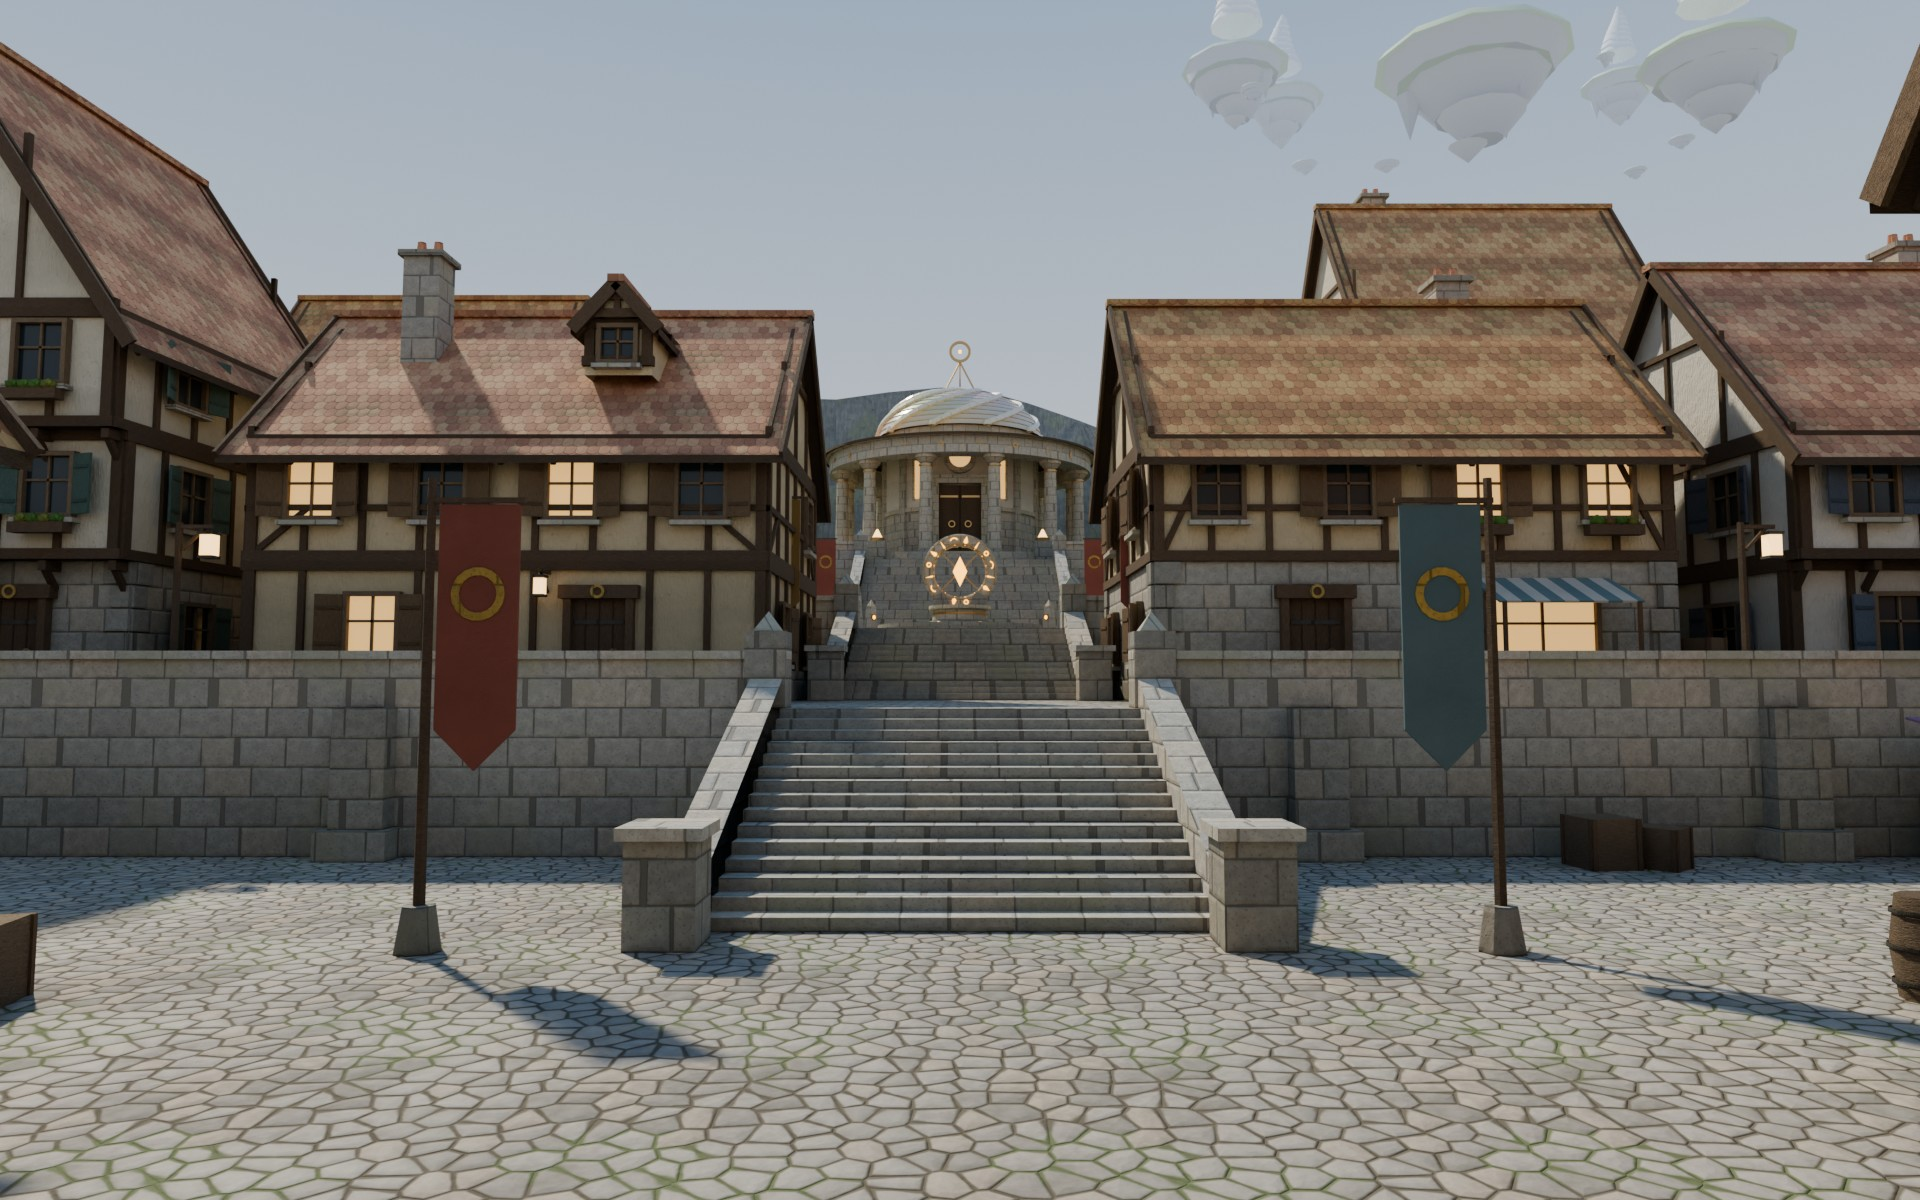
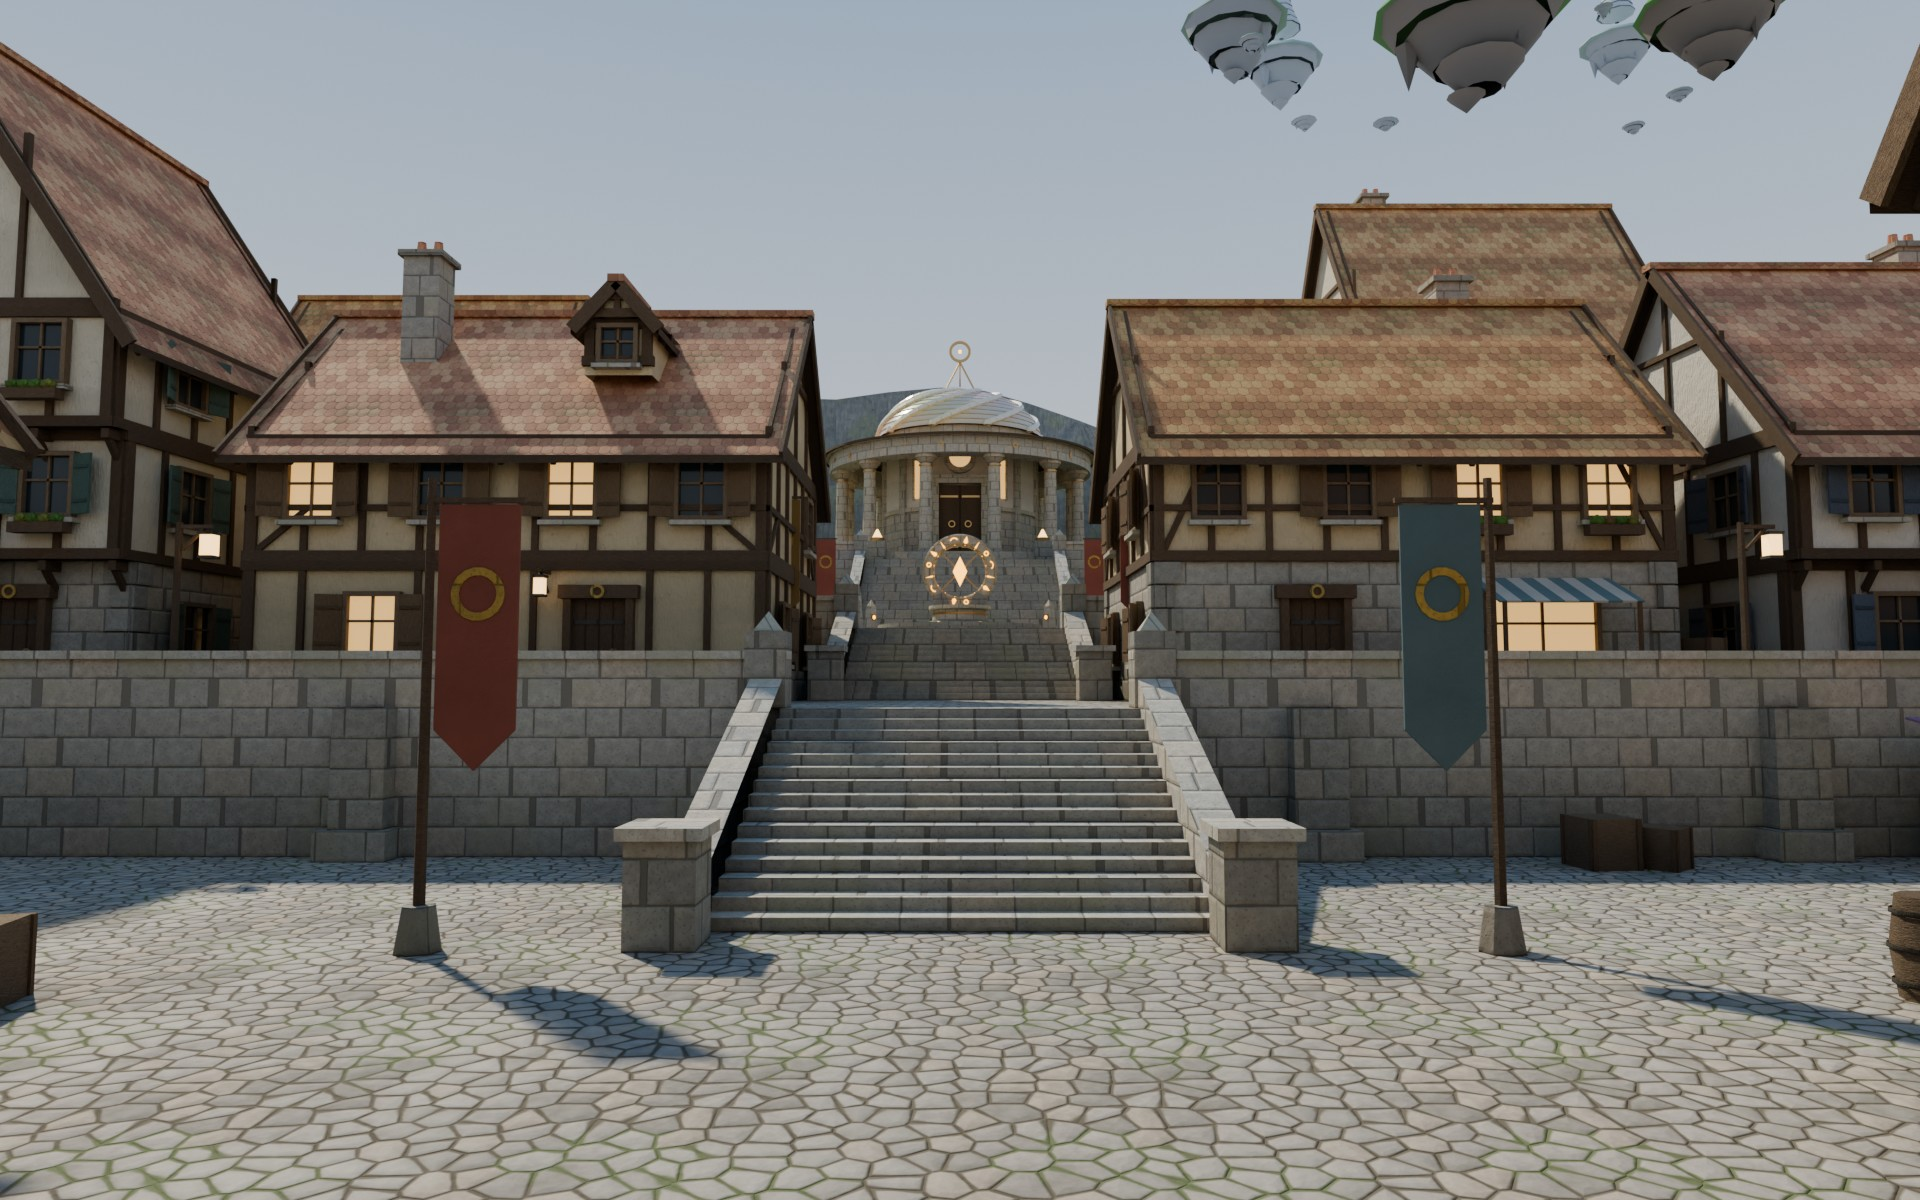
Town: the near sky islands keep their colours (grass rims, brown rock, pearly Shells), haze on the far ones; shrine render clear of the finial
Claude-Session: https://claude.ai/code/session_01GXNexMPppU9XEk5Q32gzVd

Changed region(s): [[0.7188, 0.0, 0.9375, 0.1233], [0.5938, 0.0, 0.6875, 0.1233]]

diff --git a/game/src/scenes/town-data.js b/game/src/scenes/town-data.js
@@ -169,12 +169,12 @@ export const TOWN_DATA = Object.freeze({
       "kind": "town_sky",
       "position": [
         150.0,
-        185.0,
+        200.0,
         -300.0
       ],
       "center": [
         159.09,
-        202.8,
+        217.8,
         -332.76
       ],
       "radius": 123.6

diff --git a/art/town/town_altar.py b/art/town/town_altar.py
@@ -295,11 +295,11 @@ def sky_archipelago(tb, scale):
 
     def island(x, y, z, r, depth, k, seed):
         rr = random.Random(seed)
-        rock, rock_d, grass = haze((0.34, 0.36, 0.40), k), haze((0.22, 0.24, 0.29), k), haze((0.36, 0.52, 0.30), k)
+        rock, rock_d, grass = haze((0.20, 0.155, 0.12), k), haze((0.11, 0.09, 0.075), k), haze((0.10, 0.26, 0.05), k)
         n = 11
         ph = rr.uniform(0, 6)
         # grass cap and its overhanging rim (lighter from below), then three ragged rock tiers to a point
-        tb.cyl("sky", (x, y, z), r * 1.06, r * 0.98, r * 0.10, n, grass, cap_top=True, cap_bot=True, phase=ph, col_top=haze((0.46, 0.62, 0.36), k))
+        tb.cyl("sky", (x, y, z), r * 1.06, r * 0.98, r * 0.10, n, grass, cap_top=True, cap_bot=True, phase=ph, col_top=haze((0.16, 0.34, 0.07), k))
         tiers = [(1.0, 0.0), (0.80, 0.22), (0.50, 0.55), (0.22, 0.82), (0.0, 1.0)]
         for (ra, da), (rb, db) in zip(tiers, tiers[1:]):
             ox, oz = rr.uniform(-0.08, 0.08) * r, rr.uniform(-0.08, 0.08) * r
@@ -311,7 +311,7 @@ def sky_archipelago(tb, scale):
             tb.cyl("sky", (x + math.cos(a) * d, y - depth * rr.uniform(0.5, 0.75), z + math.sin(a) * d), 0.001, r * 0.16, depth * 0.45, 6, rock_d, cap_top=False, col_top=rock)
 
     def shell(x, y, z, hgt, k, i):
-        pale, lit = haze((0.80, 0.78, 0.76), k), haze((0.96, 0.93, 0.88), k)
+        pale, lit = haze((0.46, 0.40, 0.36), k), haze((0.74, 0.66, 0.56), k)
         segs = 8
         for q in range(segs):
             t0, t1 = q / segs, (q + 1) / segs
@@ -319,11 +319,11 @@ def sky_archipelago(tb, scale):
             r1 = hgt * 0.30 * (1 - t1) ** 0.8 + hgt * 0.02
             ox = math.sin(t0 * 5.0 + i) * hgt * 0.035
             tb.cyl("sky", (x + ox, y + t0 * hgt, z), r0 * 1.08, r1, hgt / segs, 10, pale, cap_top=(q == segs - 1), col_top=lit)
-        tb.cyl("sky", (x, y - hgt * 0.16, z), hgt * 0.04, hgt * 0.32, hgt * 0.16, 10, haze((0.6, 0.6, 0.62), k), cap_top=False, col_top=pale)
+        tb.cyl("sky", (x, y - hgt * 0.16, z), hgt * 0.04, hgt * 0.32, hgt * 0.16, 10, haze((0.36, 0.33, 0.32), k), cap_top=False, col_top=pale)
 
     s = scale
     # x, y, z offsets (m), radius, underside depth, haze amount
-    isles = [(0, 0, 0, 26, 30, 0.24), (-62, 14, -30, 16, 20, 0.42), (58, -10, 20, 18, 22, 0.20),
+    isles = [(0, 0, 0, 26, 30, 0.10), (-62, 14, -30, 16, 20, 0.36), (58, -10, 20, 18, 22, 0.06),
              (-30, 34, -90, 14, 18, 0.60), (84, 30, -70, 12, 15, 0.56)]
     for i, (x, y, z, r, d, k) in enumerate(isles):
         island(x * s, y * s, z * s, r * s, d * s, k, 100 + i)

diff --git a/art/town/build_town.py b/art/town/build_town.py
@@ -227,7 +227,7 @@ def make_materials():
     mats["altar_core"] = ftf.simple_material("M_Altar_Core", (0.95, 0.52, 0.10), 0.22, emit=(1.0, 0.50, 0.08), emit_strength=4.5)
     mats["altar_metal"] = ftf.simple_material("M_Altar_Metal", (0.66, 0.44, 0.20), 0.38, metal=1.0)
     mats["pearl"] = vc_material("M_Town_Pearl", (0.93, 0.89, 0.82), rough=0.3, metal=0.0)
-    mats["sky"] = vc_material("M_Town_Sky", (1.0, 1.0, 1.0), rough=1.0, emit=0.22)
+    mats["sky"] = vc_material("M_Town_Sky", (1.0, 1.0, 1.0), rough=1.0)
     return mats, textured
 
 
@@ -368,7 +368,7 @@ def stage_render(which=None):
         "aerial": dict(loc=(64, 62, 86), tgt=(0, 4, -8), lens=32, res=(1920, 1200)),
         "square": dict(loc=(-11.5, 6.4, -3.6), tgt=(8, 7.0, -18), lens=24, res=(1920, 1200)),
         "lane": dict(loc=(-30, 4.2, 10.2), tgt=(0, 4.6, 9.0), lens=28, res=(1920, 1200)),
-        "temple": dict(loc=(-9, 11.4, -21.0), tgt=(1, 16.0, -44), lens=22, res=(1920, 1200)),
+        "temple": dict(loc=(-1.5, 11.4, -19.5), tgt=(5, 16.5, -44), lens=22, res=(1920, 1200)),
         "sky": dict(loc=(-4, 6.3, -4.5), tgt=(66, 92, -150), lens=30, res=(1920, 1200)),
     }
     samples = int(os.environ.get("TOWN_SAMPLES", "96"))

diff --git a/art/town/town_plan.py b/art/town/town_plan.py
@@ -94,7 +94,7 @@ BLOCKS = {
 }
 
 # The archipelago seen far up in the sky to the north (an impostor at reduced scale, visual only).
-SKY = {"x": 150.0, "y": 185.0, "z": -300.0, "scale": 1.0}
+SKY = {"x": 150.0, "y": 200.0, "z": -300.0, "scale": 1.0}
 
 # Paved rectangles (x0, x1, z0, z1) per terrace; everything else is grass and packed earth.
 PAVED = {
